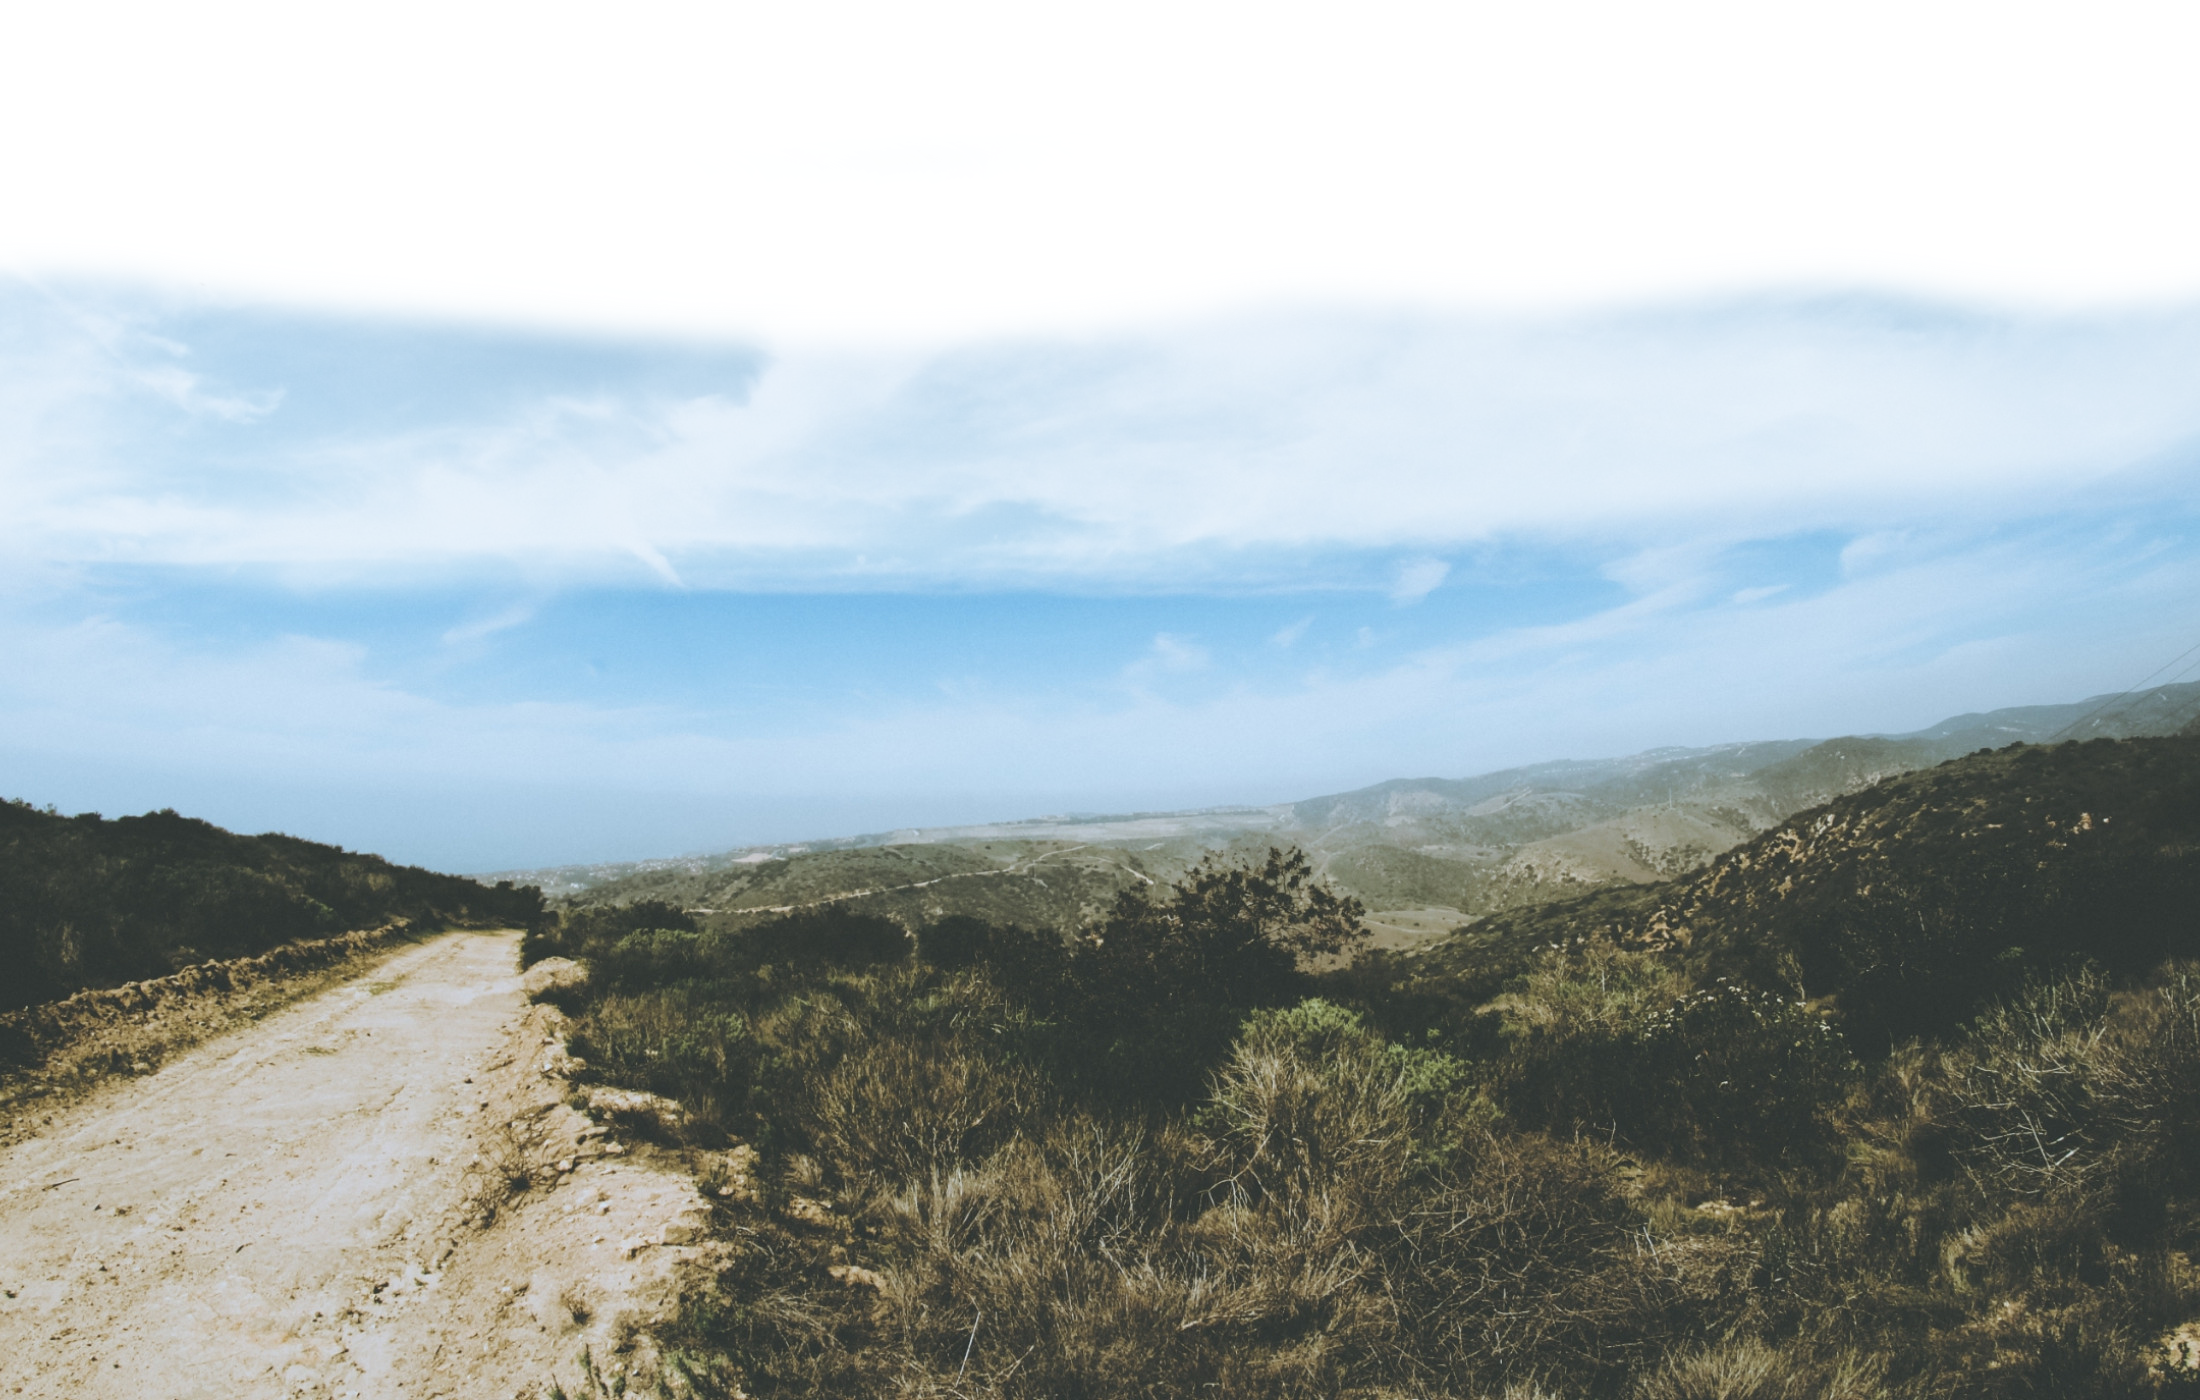
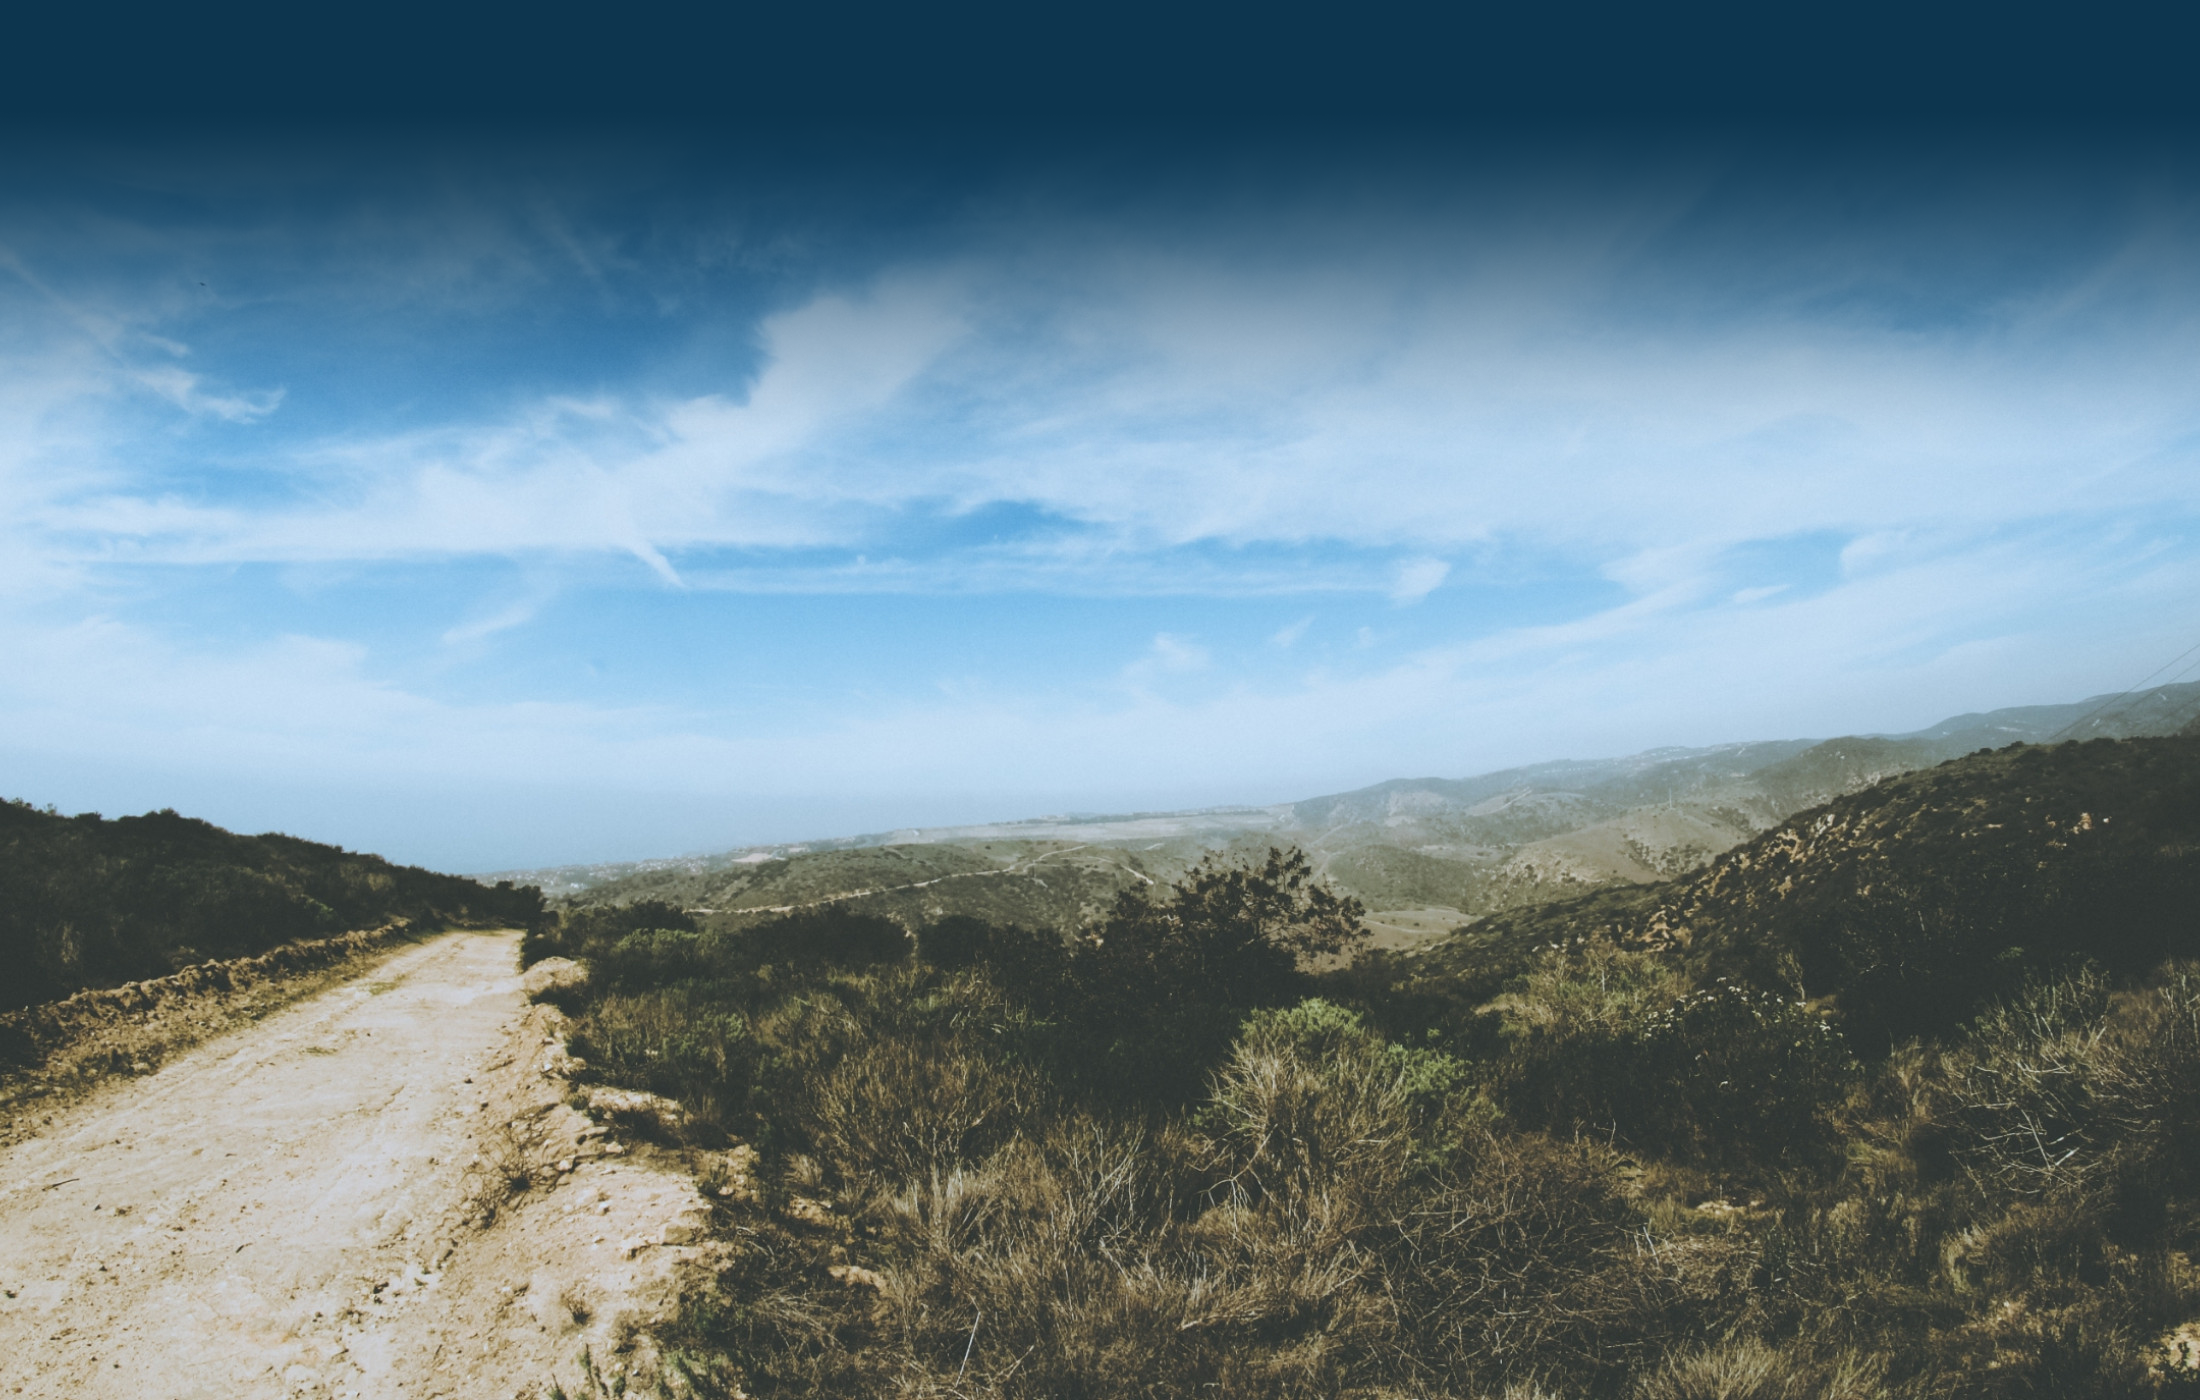
improve responsive

diff --git a/src/components/Categorie.js b/src/components/Categorie.js
@@ -14,70 +14,94 @@
  * limitations under the License.
  */
 
-import React from 'react';
+import React from "react";
 
-import Container from '@material-ui/core/Container';
-import Grid from '@material-ui/core/Grid';
-import Paper from '@material-ui/core/Paper';
-import Typography from '@material-ui/core/Typography';
-import { makeStyles } from '@material-ui/core/styles';
+import Container from "@material-ui/core/Container";
+import Grid from "@material-ui/core/Grid";
+import Paper from "@material-ui/core/Paper";
+import Typography from "@material-ui/core/Typography";
+import { makeStyles } from "@material-ui/core/styles";
 
 const useStyles = makeStyles(theme => ({
   root: {
     flexGrow: 1
   },
   leftText: {
-    textAlign: 'left',
-    width: 'auto',
-    display: 'inline-block'
+    textAlign: "left",
+    width: "auto",
+    display: "inline-block"
   },
   responsive: {
-    width: '100%',
-    maxWidth: '1000px',
-    height: 'auto',
-    backgroundColor: 'red'
+    width: "100%",
+    maxWidth: "1000px",
+    height: "auto",
+    backgroundColor: "red"
   },
   container: {
-    display: 'flex',
-    flexDirection: 'column',
-    alignItems: 'center',
-    justifyContent: 'center'
+    display: "flex",
+    flexDirection: "column",
+    alignItems: "center",
+    justifyContent: "center"
   },
   overlay: {
-    backgroundColor: 'rgba(13,53,78, 0.7)',
-    color: 'white',
-    padding: 45
+    backgroundColor: "rgba(13,53,78, 0.7)",
+    color: "white",
+    position: "relative"
+  },
+
+  topOpacity: {
+    position: "absolute",
+    top: 0,
+    width: "100%",
+    height: 75,
+    background: "linear-gradient( to top, transparent , rgba(13,53,78,0.98) )",
+    backgroundRepeat: "no-repeat"
+  },
+  bottomOpacity: {
+    position: "absolute",
+    bottom: 0,
+    width: "100%",
+    height: 75,
+    background:
+      "linear-gradient( to bottom, transparent , rgba(13,53,78, 0.98) )",
+    backgroundRepeat: "no-repeat"
+  },
+
+  padding: {
+    padding: "auto",
+    paddingTop: 85,
+    paddingBottom: 85
   }
 }));
 
 export default function Categorie(props) {
   const classes = useStyles();
   const filename = {
-    air: 'airopacity.png',
-    eau: 'eau.jpg',
-    sol: 'sol.jpg'
+    air: "airopacity.png",
+    eau: "eau.jpg",
+    sol: "sol.jpg"
   };
   const backgd = {
     backgroundImage: `url('./photos/${filename[props.name]}')`,
-    backgroundPosition: 'center',
-    backgroundSize: 'cover',
-    backgroundRepeat: 'no-repeat',
-    width: '100%'
+    backgroundPosition: "top center",
+    backgroundSize: "cover",
+    backgroundRepeat: "no-repeat",
+    width: "100%"
   };
 
   function renderDetails() {
     switch (props.name) {
-      case 'eau':
+      case "eau":
         return (
           <div>
             <img
               className={classes.responsive}
-              src={'./photos/detaileau.jpg'}
+              src={"./photos/detaileau.jpg"}
               alt="detaileau"
             />
           </div>
         );
-      case 'sol':
+      case "sol":
         return (
           <Container maxWidth="sm" style={{ marginTop: 25, marginBottom: 25 }}>
             <Grid container spacing={1} justify="center" alignItems="stretch">
@@ -111,54 +135,69 @@ export default function Categorie(props) {
             </Grid>
           </Container>
         );
-      case 'air':
+      case "air":
         return null;
     }
+  }
+  let test = {
+    xs: 12,
+    sm: 6
+  };
+  if (props.name == "eau") {
+    test = {
+      xs: 6
+    };
   }
   return (
     <div style={backgd}>
       <div className={classes.overlay}>
-        <Container maxWidth="sm">
-          <Typography variant="h2" gutterBottom>
-            {props.display}
-          </Typography>
+        {props.topOpacity && <div className={classes.topOpacity} />}
+        <div className={classes.padding}>
+          <Container maxWidth="sm">
+            <Typography variant="h2" gutterBottom>
+              {props.display}
+            </Typography>
 
-          <Grid container spacing={1} justify="center" alignItems="center">
-            <Grid item xs={12}>
-              <img
-                className={classes.responsive}
-                src={'./photos/animal.jpg'}
-                alt="meteo"
-              />
+            <Grid container spacing={1} justify="center" alignItems="center">
+              <Grid item xs={12}>
+                <img
+                  className={classes.responsive}
+                  src={"./photos/animal.jpg"}
+                  alt="meteo"
+                />
+              </Grid>
             </Grid>
-          </Grid>
-          <Grid container spacing={1} justify="center" alignItems="center">
-            <Grid item xs={12} sm={6}>
-              <img
-                className={classes.responsive}
-                src={'./photos/animal.jpg'}
-                alt="meteo"
-              />
+            <Grid container spacing={1} justify="center" alignItems="center">
+              <Grid item {...test} style={{ position: "relative" }}>
+                <img
+                  className={classes.responsive}
+                  src={"./photos/animal.jpg"}
+                  alt="meteo"
+                />
+                <div style={{ position: "absolute", bottom: 20, left: 10 }}>
+                  <i>Galinette cendrée</i>
+                  <br />
+                  <b>Espèce endémique</b> observée 132
+                </div>
+              </Grid>
+              <Grid item {...test} style={{ position: "relative" }}>
+                <img
+                  className={classes.responsive}
+                  src={"./photos/animal.jpg"}
+                  alt="meteo"
+                />
+                <div style={{ position: "absolute", bottom: 20, left: 10 }}>
+                  <i>Galinette cendrée</i>
+                  <br />
+                  <b>Espèce endémique</b> observée 132
+                </div>
+              </Grid>
             </Grid>
-            <Grid item xs={12} sm={6}>
-              <img
-                className={classes.responsive}
-                src={'./photos/animal.jpg'}
-                alt="meteo"
-              />
-            </Grid>
-          </Grid>
-          {renderDetails()}
-        </Container>
+            {renderDetails()}
+          </Container>
+        </div>
+        {props.bottomOpacity && <div className={classes.bottomOpacity} />}
       </div>
     </div>
   );
 }
-
-/*
-<img
-            className={classes.responsive}
-            src={'/photos/animal.jpg'}
-            alt="meteo"
-          />
-*/

diff --git a/src/App.js b/src/App.js
@@ -1,18 +1,18 @@
-import React from 'react';
-import './App.css';
+import React from "react";
+import "./App.css";
 
-import Meteo from './components/Meteo';
-import Categorie from './components/Categorie';
+import Meteo from "./components/Meteo";
+import Categorie from "./components/Categorie";
 
 function App() {
   return (
     <div className="App">
-      <h5>BioMétéo</h5>
+      <h5 style={{ paddingLeft: 15 }}>BioMétéo</h5>
       <header className="App-header">
         <Meteo />
-        <Categorie name="air" display="Air" />
-        <Categorie name="sol" display="Sol" />
-        <Categorie name="eau" display="Eau" />
+        <Categorie name="air" display="Air" bottomOpacity />
+        <Categorie name="sol" display="Sol" bottomOpacity topOpacity />
+        <Categorie name="eau" display="Eau" topOpacity />
       </header>
     </div>
   );

diff --git a/src/components/Meteo.js b/src/components/Meteo.js
@@ -14,15 +14,15 @@
  * limitations under the License.
  */
 
-import React from 'react';
+import React from "react";
 
-import { makeStyles } from '@material-ui/core/styles';
+import { makeStyles } from "@material-ui/core/styles";
 
 const useStyles = makeStyles(theme => ({
   responsive: {
-    width: '100%',
-    height: 'auto',
-    maxWidth: '1000px'
+    width: "100%",
+    height: "auto",
+    maxWidth: "1000px"
   }
 }));
 
@@ -33,7 +33,7 @@ export default function Meteo() {
     <div>
       <img
         className={classes.responsive}
-        src={'./photos/meteo.png'}
+        src={"./photos/meteo.png"}
         alt="meteo"
       />
     </div>

diff --git a/src/App.css b/src/App.css
@@ -1,10 +1,9 @@
 .App {
   background-color: #0d354e;
   min-height: 100vh;
-
   font-size: calc(10px + 2vmin);
   color: white;
-  padding-top: 10px;
+  padding-top: 5px;
   padding-bottom: 0px;
 }
 
